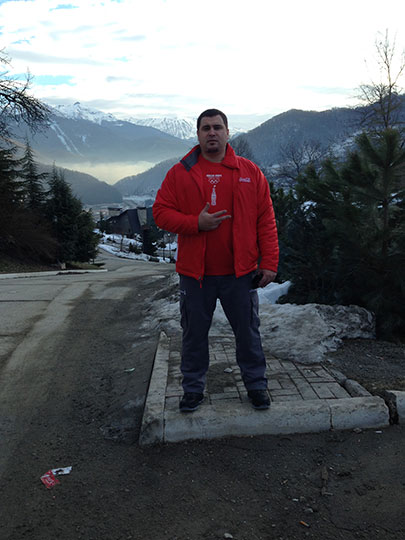
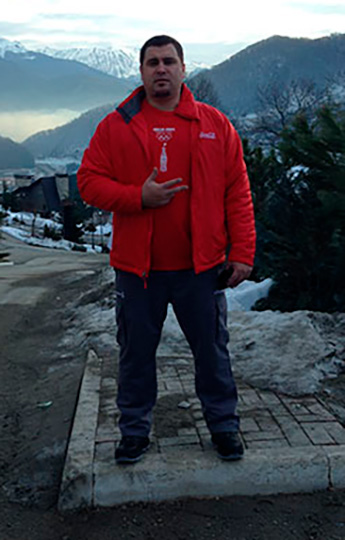
'1st_gallery_done'

diff --git a/theme/css/styles.css b/theme/css/styles.css
@@ -1,4 +1,4 @@
-@font-face{font-family:'MuseoSansCyrl-300';src:url("../fonts/MuseoSansCyrl-300.eot");src:url("../fonts/MuseoSansCyrl-300.eot?#iefix") format("embedded-opentype"),url("../fonts/MuseoSansCyrl-300.woff") format("woff"),url("../fonts/MuseoSansCyrl-300.ttf") format("truetype"),url("../fonts/MuseoSansCyrl-300.svg#MuseoSansCyrl-300") format("svg");font-weight:normal;font-style:normal}@font-face{font-family:'FedraSansPro-Normal';src:url("../fonts/FedraSansPro-Normal.eot");src:url("../fonts/FedraSansPro-Normal.eot?#iefix") format("embedded-opentype"),url("../fonts/FedraSansPro-Normal.woff") format("woff"),url("../fonts/FedraSansPro-Normal.ttf") format("truetype"),url("../fonts/FedraSansPro-Normal.svg#FedraSansPro-Normal") format("svg");font-weight:normal;font-style:normal}@font-face{font-family:'FranklinGothicBookITC-Regular';src:url("../fonts/FranklinGothicBookITC-Regular.eot");src:url("../fonts/FranklinGothicBookITC-Regular.eot?#iefix") format("embedded-opentype"),url("../fonts/FranklinGothicBookITC-Regular.woff") format("woff"),url("../fonts/FranklinGothicBookITC-Regular.ttf") format("truetype"),url("../fonts/FranklinGothicBookITC-Regular.svg#FranklinGothicBookITC-Regular") format("svg");font-weight:normal;font-style:normal}/*! normalize.css v2.1.3 | MIT License | git.io/normalize */article,aside,details,figcaption,figure,footer,header,hgroup,main,nav,section,summary{display:block}audio,canvas,video{display:inline-block}audio:not([controls]){display:none;height:0}[hidden],template{display:none}html{font-family:sans-serif;-ms-text-size-adjust:100%;-webkit-text-size-adjust:100%}body{margin:0}a{background:transparent}a:focus{outline:thin dotted}a:active,a:hover{outline:0}h1{font-size:2em;margin:0.67em 0}abbr[title]{border-bottom:1px dotted}b,strong{font-weight:bold}dfn{font-style:italic}hr{-moz-box-sizing:content-box;box-sizing:content-box;height:0}mark{background:#ff0;color:#000}code,kbd,pre,samp{font-family:monospace, serif;font-size:1em}pre{white-space:pre-wrap}q{quotes:"\201C" "\201D" "\2018" "\2019"}small{font-size:80%}sub,sup{font-size:75%;line-height:0;position:relative;vertical-align:baseline}sup{top:-0.5em}sub{bottom:-0.25em}img{border:0}svg:not(:root){overflow:hidden}figure{margin:0}fieldset{border:1px solid #c0c0c0;margin:0 2px;padding:0.35em 0.625em 0.75em}legend{border:0;padding:0}button,input,select,textarea{font-family:inherit;font-size:100%;margin:0}button,input{line-height:normal}button,select{text-transform:none}button,html input[type="button"],input[type="reset"],input[type="submit"]{-webkit-appearance:button;cursor:pointer}button[disabled],html input[disabled]{cursor:default}input[type="checkbox"],input[type="radio"]{box-sizing:border-box;padding:0}input[type="search"]{-webkit-appearance:textfield;-moz-box-sizing:content-box;-webkit-box-sizing:content-box;box-sizing:content-box}input[type="search"]::-webkit-search-cancel-button,input[type="search"]::-webkit-search-decoration{-webkit-appearance:none}button::-moz-focus-inner,input::-moz-focus-inner{border:0;padding:0}textarea{overflow:auto;vertical-align:top}table{border-collapse:collapse;border-spacing:0}html{height:100%}body{min-height:100%;height:100%;font-size:14px}.clearfix{*zoom:1}.clearfix:before,.clearfix:after{display:table;content:"";line-height:0}.clearfix:after{clear:both}.pull-left{float:left}.pull-right{float:right}a{text-decoration:none}strong{color:skyblue}::-webkit-input-placeholder{color:gray;text-overflow:ellipsis}::-moz-placeholder{color:gray;text-overflow:ellipsis}:-moz-placeholder{color:gray;text-overflow:ellipsis}:-ms-input-placeholder{color:gray;text-overflow:ellipsis}input{outline:none}html,body{height:100%}*{margin:0;padding:0;box-sizing:border-box}strong{color:black}aside{width:96px;height:100%;position:fixed;background-color:red;z-index:10}.wrapper{min-width:940px;margin-left:96px;color:white;font-size:16px;font-family:'MuseoSansCyrl-300'}.section{background-color:#fff;position:relative}.top-container{text-align:center;padding-top:58px;background-image:url("../../theme/images/bg/training_people.jpg");background-repeat:no-repeat;background-size:cover;position:fixed;height:100vh;width:100vw}.top-container:before{height:96px;width:96px;background: url('../images/icons-sf8e238aa7d.png') 0 0 no-repeat;content:"";display:block;position:absolute;right:47.8%;bottom:5.6%}.top-container p:first-child{color:red;font-size:29px;margin-right:16px;font-family:'FedraSansPro-Normal'}.top-container h1{width:550px;margin:24px auto 0 auto;font-size:66px;line-height:115%}.top-container p:last-child{margin:4px auto 0 auto;width:840px;font-size:23px;line-height:150%}.container_co-worker-1,.container_co-worker-2,.container_co-worker-3{-moz-transform:translateY(100vh);-ms-transform:translateY(100vh);-webkit-transform:translateY(100vh);transform:translateY(100vh)}.container_co-worker-1 .content{width:990px;margin:0 auto;position:relative}.container_co-worker-1 .content .left-part{display:inline-block;height:50vh;color:#000000;padding-top:43px;text-align:right}.container_co-worker-1 .content .left-part h2{width:206px;font-size:44px;line-height:1.1}.container_co-worker-1 .content .left-part .co-workers-photo{margin-top:53px;margin-left:74px}.container_co-worker-1 .content .left-part .co-worker_name{margin-top:28px;padding-left:70px;line-height:1.32;width:206px}.container_co-worker-1 .content .right-part{background-color:red;width:703px;padding:44px 64px 50px 64px;position:absolute;top:0;left:295px;margin:0;font-size:20px;color:white;text-align:left;line-height:2.1}.container_co-worker-1 .co-workers-gallery{height:50vh}.container_co-worker-1 .co-workers-gallery:after{content:" ";display:block;height:0;clear:both;overflow:hidden;visibility:hidden}.container_co-worker-1 .co-workers-gallery img{float:left}.container_co-worker-1 .co-workers-gallery img:last-child{float:right}.container_co-worker-1 .video-1{height:1080px}.container_co-worker-1 .video-1 img{width:100%}.container_co-worker-2{text-align:right}.container_co-worker-2 .content{width:970px;margin:0 auto;position:relative}.container_co-worker-2 .content .right-part{display:inline-block;width:206px;color:#000000;padding-top:43px;padding-right:27%;text-align:left;position:relative}.container_co-worker-2 .content .right-part h2{width:420px;font-size:44px;line-height:1.1}.container_co-worker-2 .content .right-part .co-workers-photo{margin-top:97px}.container_co-worker-2 .content .right-part p{margin-top:28px;line-height:1.32;width:195px}.container_co-worker-2 .content .left-part{background-color:red;width:703px;padding:44px 64px 43px 64px;position:absolute;top:0;right:302px;margin:0;font-size:20px;color:white;text-align:left;line-height:1.96;z-index:2}.container_co-worker-2 .bg-block{margin-top:365px}.container_co-worker-2 .bg-block img{transform:scale(1.007)}.container_co-worker-3 .content{width:1020px;margin:0 auto;position:relative}.container_co-worker-3 .content .left-part{display:inline-block;height:100vh;width:210px;color:#000000;padding-top:43px;text-align:right}.container_co-worker-3 .content .left-part h2{width:210px;font-size:44px;line-height:1.1}.container_co-worker-3 .content .left-part .co-workers-photo{margin-top:53px}.container_co-worker-3 .content .left-part p{margin-top:28px;padding-left:100px;line-height:1.32}.container_co-worker-3 .content .right-part{background-color:red;width:703px;padding:44px 64px 50px 64px;position:absolute;top:0;left:295px;margin:0;font-size:20px;color:white;text-align:left;line-height:2.0}/*!
+@font-face{font-family:'MuseoSansCyrl-300';src:url("../fonts/MuseoSansCyrl-300.eot");src:url("../fonts/MuseoSansCyrl-300.eot?#iefix") format("embedded-opentype"),url("../fonts/MuseoSansCyrl-300.woff") format("woff"),url("../fonts/MuseoSansCyrl-300.ttf") format("truetype"),url("../fonts/MuseoSansCyrl-300.svg#MuseoSansCyrl-300") format("svg");font-weight:normal;font-style:normal}@font-face{font-family:'FedraSansPro-Normal';src:url("../fonts/FedraSansPro-Normal.eot");src:url("../fonts/FedraSansPro-Normal.eot?#iefix") format("embedded-opentype"),url("../fonts/FedraSansPro-Normal.woff") format("woff"),url("../fonts/FedraSansPro-Normal.ttf") format("truetype"),url("../fonts/FedraSansPro-Normal.svg#FedraSansPro-Normal") format("svg");font-weight:normal;font-style:normal}@font-face{font-family:'FranklinGothicBookITC-Regular';src:url("../fonts/FranklinGothicBookITC-Regular.eot");src:url("../fonts/FranklinGothicBookITC-Regular.eot?#iefix") format("embedded-opentype"),url("../fonts/FranklinGothicBookITC-Regular.woff") format("woff"),url("../fonts/FranklinGothicBookITC-Regular.ttf") format("truetype"),url("../fonts/FranklinGothicBookITC-Regular.svg#FranklinGothicBookITC-Regular") format("svg");font-weight:normal;font-style:normal}/*! normalize.css v2.1.3 | MIT License | git.io/normalize */article,aside,details,figcaption,figure,footer,header,hgroup,main,nav,section,summary{display:block}audio,canvas,video{display:inline-block}audio:not([controls]){display:none;height:0}[hidden],template{display:none}html{font-family:sans-serif;-ms-text-size-adjust:100%;-webkit-text-size-adjust:100%}body{margin:0}a{background:transparent}a:focus{outline:thin dotted}a:active,a:hover{outline:0}h1{font-size:2em;margin:0.67em 0}abbr[title]{border-bottom:1px dotted}b,strong{font-weight:bold}dfn{font-style:italic}hr{-moz-box-sizing:content-box;box-sizing:content-box;height:0}mark{background:#ff0;color:#000}code,kbd,pre,samp{font-family:monospace, serif;font-size:1em}pre{white-space:pre-wrap}q{quotes:"\201C" "\201D" "\2018" "\2019"}small{font-size:80%}sub,sup{font-size:75%;line-height:0;position:relative;vertical-align:baseline}sup{top:-0.5em}sub{bottom:-0.25em}img{border:0}svg:not(:root){overflow:hidden}figure{margin:0}fieldset{border:1px solid #c0c0c0;margin:0 2px;padding:0.35em 0.625em 0.75em}legend{border:0;padding:0}button,input,select,textarea{font-family:inherit;font-size:100%;margin:0}button,input{line-height:normal}button,select{text-transform:none}button,html input[type="button"],input[type="reset"],input[type="submit"]{-webkit-appearance:button;cursor:pointer}button[disabled],html input[disabled]{cursor:default}input[type="checkbox"],input[type="radio"]{box-sizing:border-box;padding:0}input[type="search"]{-webkit-appearance:textfield;-moz-box-sizing:content-box;-webkit-box-sizing:content-box;box-sizing:content-box}input[type="search"]::-webkit-search-cancel-button,input[type="search"]::-webkit-search-decoration{-webkit-appearance:none}button::-moz-focus-inner,input::-moz-focus-inner{border:0;padding:0}textarea{overflow:auto;vertical-align:top}table{border-collapse:collapse;border-spacing:0}html{height:100%}body{min-height:100%;height:100%;font-size:14px}.clearfix{*zoom:1}.clearfix:before,.clearfix:after{display:table;content:"";line-height:0}.clearfix:after{clear:both}.pull-left{float:left}.pull-right{float:right}a{text-decoration:none}strong{color:skyblue}::-webkit-input-placeholder{color:gray;text-overflow:ellipsis}::-moz-placeholder{color:gray;text-overflow:ellipsis}:-moz-placeholder{color:gray;text-overflow:ellipsis}:-ms-input-placeholder{color:gray;text-overflow:ellipsis}input{outline:none}html,body{height:100%}*{margin:0;padding:0;box-sizing:border-box}strong{color:black}aside{width:96px;height:100%;position:fixed;background-color:red;z-index:10}.wrapper{min-width:940px;margin-left:96px;color:white;font-size:16px;font-family:'MuseoSansCyrl-300'}.section{background-color:#fff;position:relative}.top-container{text-align:center;padding-top:58px;background-image:url("../../theme/images/bg/training_people.jpg");background-repeat:no-repeat;background-size:cover;position:fixed;height:100vh;width:100vw}.top-container:before{height:96px;width:96px;background: url('../images/icons-sf8e238aa7d.png') 0 0 no-repeat;content:"";display:block;position:absolute;right:47.8%;bottom:5.6%}.top-container p:first-child{color:red;font-size:29px;margin-right:16px;font-family:'FedraSansPro-Normal'}.top-container h1{width:550px;margin:24px auto 0 auto;font-size:66px;line-height:115%}.top-container p:last-child{margin:4px auto 0 auto;width:840px;font-size:23px;line-height:150%}.container_co-worker-1,.container_co-worker-2,.container_co-worker-3{-moz-transform:translateY(100vh);-ms-transform:translateY(100vh);-webkit-transform:translateY(100vh);transform:translateY(100vh)}.container_co-worker-1 .content{width:990px;margin:0 auto;position:relative}.container_co-worker-1 .content .left-part{display:inline-block;height:50vh;color:#000000;padding-top:43px;text-align:right}.container_co-worker-1 .content .left-part h2{width:206px;font-size:44px;line-height:1.1}.container_co-worker-1 .content .left-part .co-workers-photo{margin-top:53px;margin-left:74px}.container_co-worker-1 .content .left-part .co-worker_name{margin-top:28px;padding-left:70px;line-height:1.32;width:206px}.container_co-worker-1 .content .right-part{background-color:red;width:703px;padding:44px 64px 50px 64px;position:absolute;top:0;left:295px;margin:0;font-size:20px;color:white;text-align:left;line-height:2.1}.container_co-worker-1 .co-workers-gallery{height:50%}.container_co-worker-1 .co-workers-gallery:after{content:" ";display:block;height:0;clear:both;overflow:hidden;visibility:hidden}.container_co-worker-1 .co-workers-gallery .item{overflow:hidden;float:left;font-size:0}.container_co-worker-1 .co-workers-gallery .item:last-child{float:right}.container_co-worker-1 .video-1{height:1080px}.container_co-worker-1 .video-1 img{width:100%}.container_co-worker-2{text-align:right}.container_co-worker-2 .content{width:970px;margin:0 auto;position:relative}.container_co-worker-2 .content .right-part{display:inline-block;width:206px;color:#000000;padding-top:43px;padding-right:27%;text-align:left;position:relative}.container_co-worker-2 .content .right-part h2{width:420px;font-size:44px;line-height:1.1}.container_co-worker-2 .content .right-part .co-workers-photo{margin-top:97px}.container_co-worker-2 .content .right-part p{margin-top:28px;line-height:1.32;width:195px}.container_co-worker-2 .content .left-part{background-color:red;width:703px;padding:44px 64px 43px 64px;position:absolute;top:0;right:302px;margin:0;font-size:20px;color:white;text-align:left;line-height:1.96;z-index:2}.container_co-worker-2 .bg-block{margin-top:365px}.container_co-worker-2 .bg-block img{transform:scale(1.007)}.container_co-worker-3 .content{width:1020px;margin:0 auto;position:relative}.container_co-worker-3 .content .left-part{display:inline-block;height:100vh;width:210px;color:#000000;padding-top:43px;text-align:right}.container_co-worker-3 .content .left-part h2{width:210px;font-size:44px;line-height:1.1}.container_co-worker-3 .content .left-part .co-workers-photo{margin-top:53px}.container_co-worker-3 .content .left-part p{margin-top:28px;padding-left:100px;line-height:1.32}.container_co-worker-3 .content .right-part{background-color:red;width:703px;padding:44px 64px 50px 64px;position:absolute;top:0;left:295px;margin:0;font-size:20px;color:white;text-align:left;line-height:2.0}/*!
 Animate.css - http://daneden.me/animate
 Licensed under the MIT license - http://opensource.org/licenses/MIT
 

diff --git a/index.html b/index.html
@@ -41,9 +41,9 @@
 
             </div>
             <div class="co-workers-gallery">
-                <img src="theme/images/tmp/co-worker-1_photo-1.jpg" alt="co-worker_1-photo_1">
-                <img src="theme/images/tmp/co-worker-1_photo-2.JPG" alt="co-worker_1-photo_2">
-                <img src="theme/images/tmp/co-worker-1_photo-3.JPG" alt="co-worker_1-photo_3">
+                <div class="item-1 item"><img src="theme/images/tmp/co-worker-1_photo-1.jpg" alt="co-worker_1-photo_1"></div>
+                <div class="item-2 item"><img src="theme/images/tmp/cgto-worker-1_photo-2.JPG" alt="co-worker_1-photo_2"></div>
+                <div class="item-3 item"><img src="theme/images/tmp/co-worker-1_photo-3.JPG" alt="co-worker_1-photo_3"></div>
             </div>
         <div class="video-1">
             <img src="theme/images/tmp/co-worker-1_training-video.jpg" alt="co-worker-1_training-video">

diff --git a/scss/layout/_content.scss b/scss/layout/_content.scss
@@ -126,16 +126,18 @@ aside {
   }
 
   .co-workers-gallery {
-    height: 50vh;
+    height: 50%;
     @include clearfix();
 
-    img {
+    .item {
+      overflow: hidden;
       float: left;
-        &:last-child {
-        float: right;
-     }
-    }
+      font-size: 0;
 
+      &:last-child {
+        float: right;
+      }
+    }
   }
 
   .video-1 {
